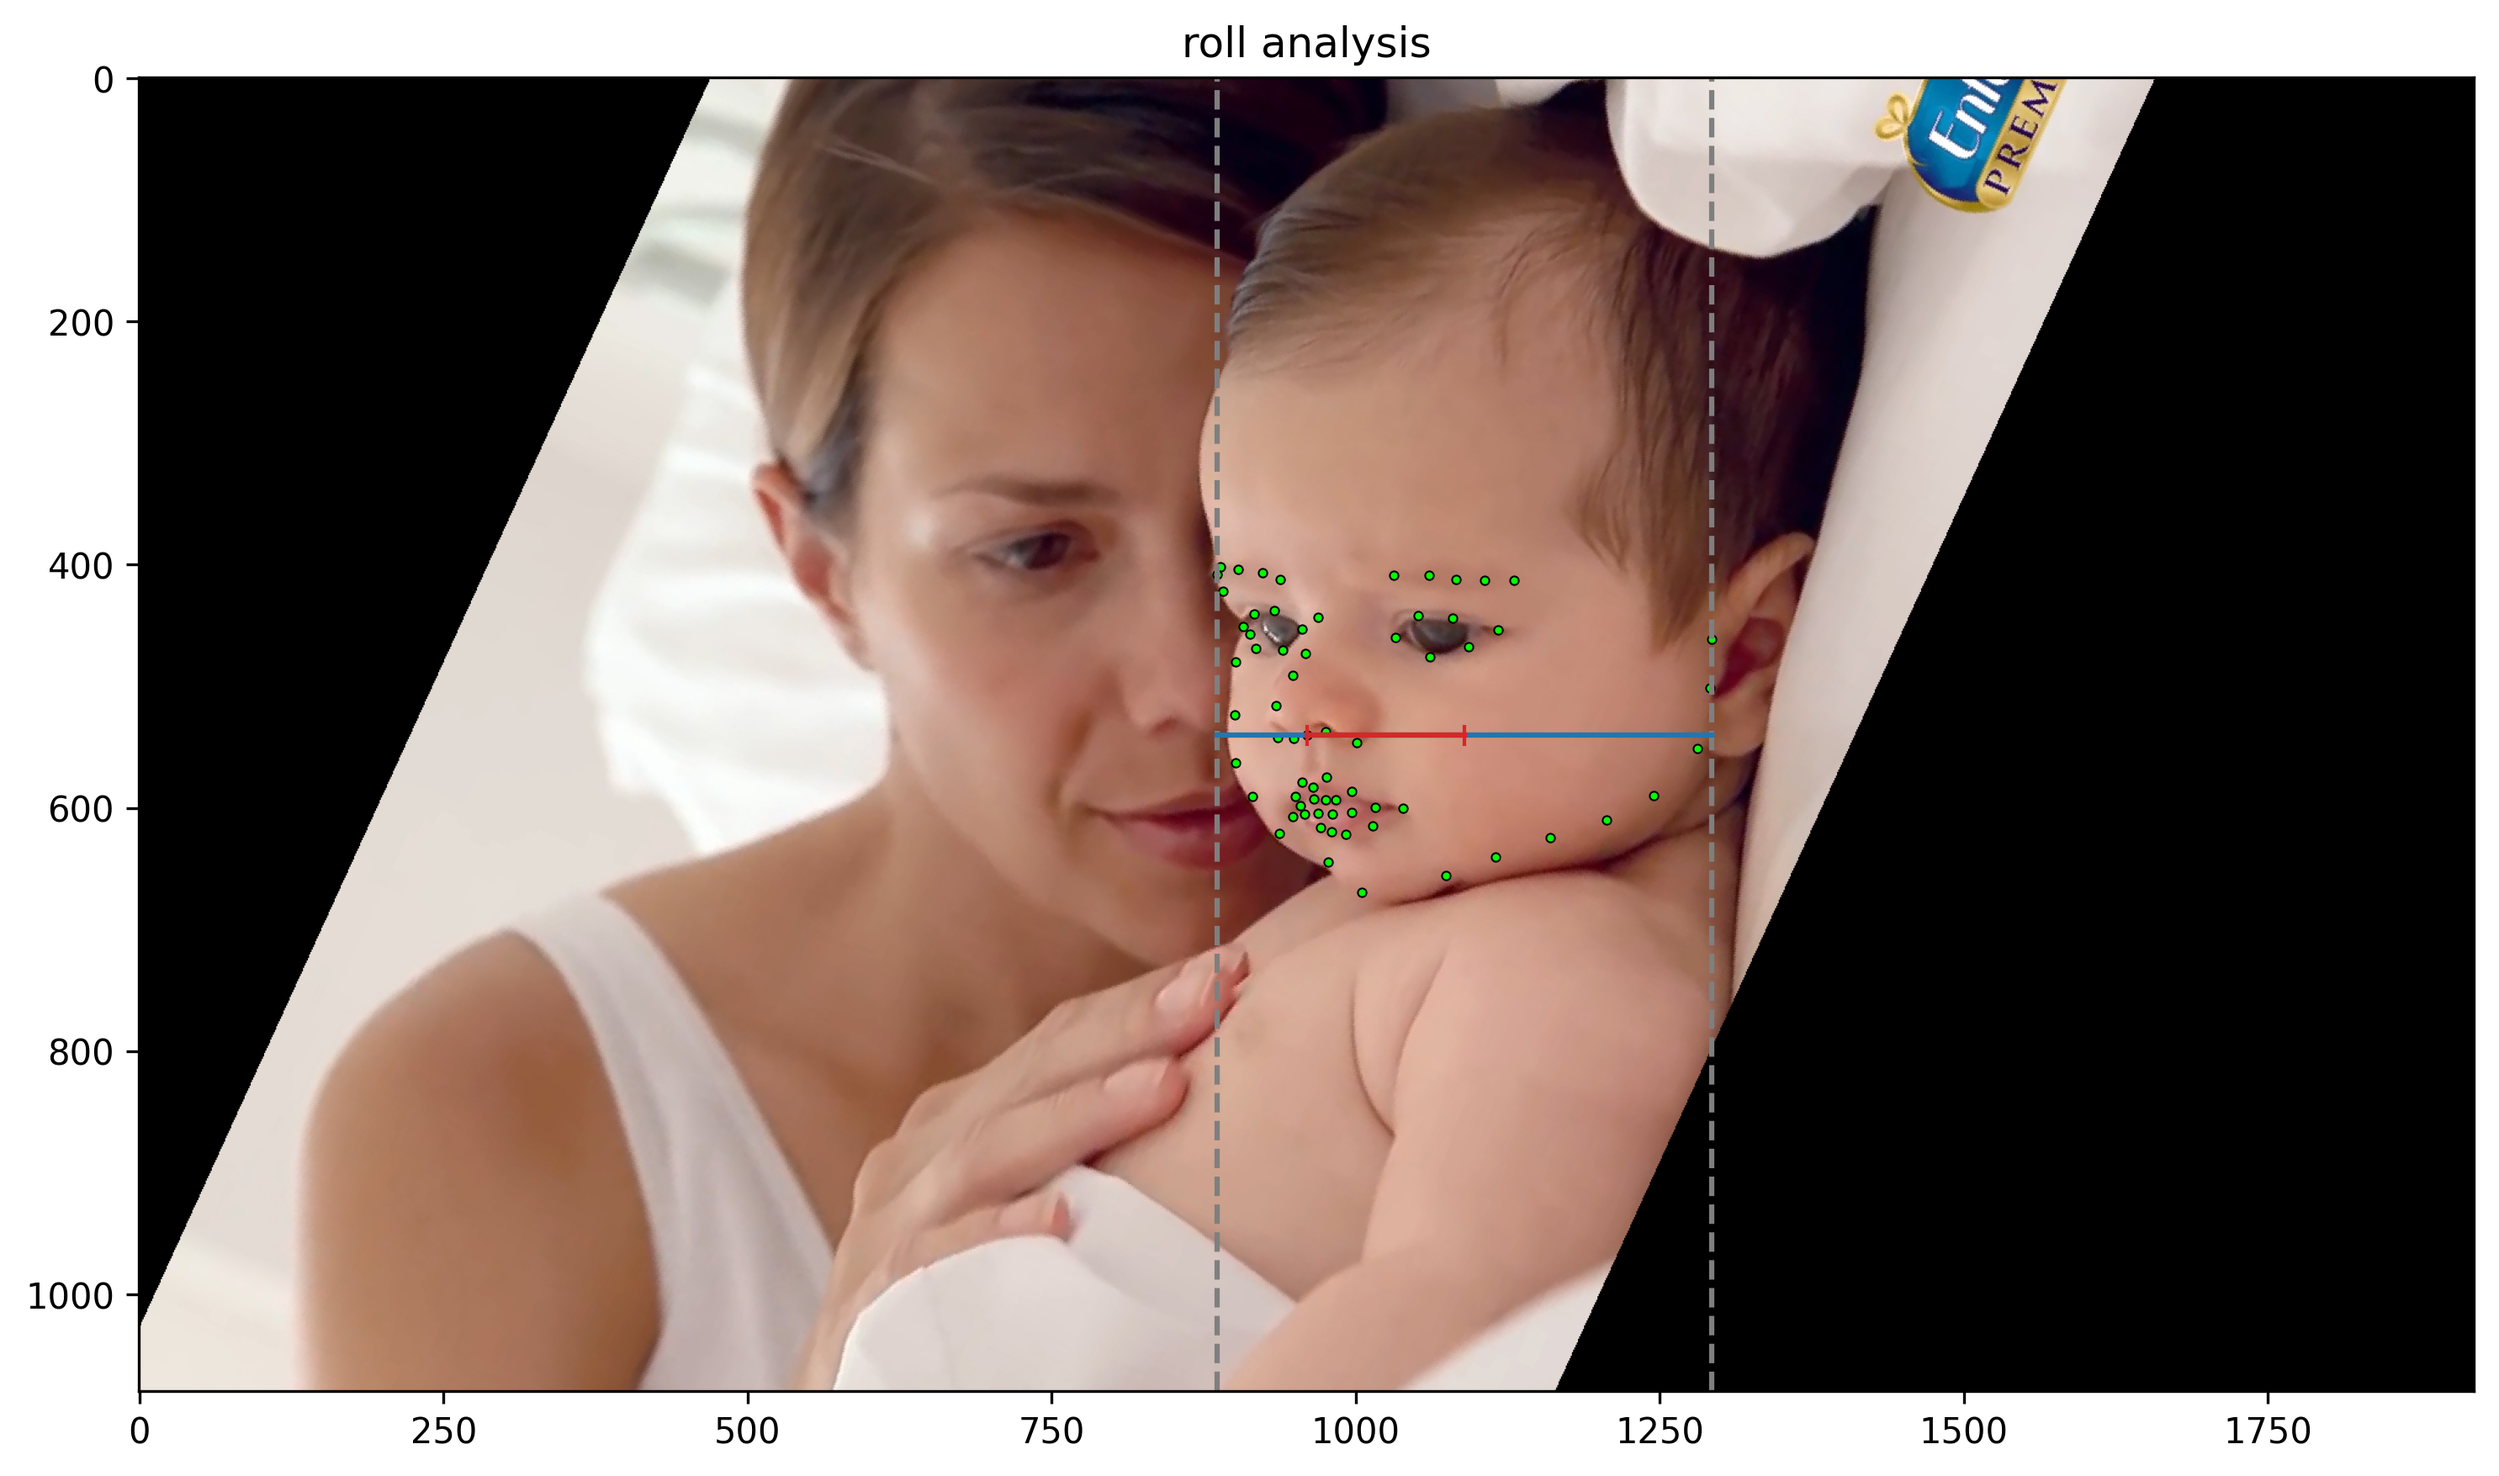
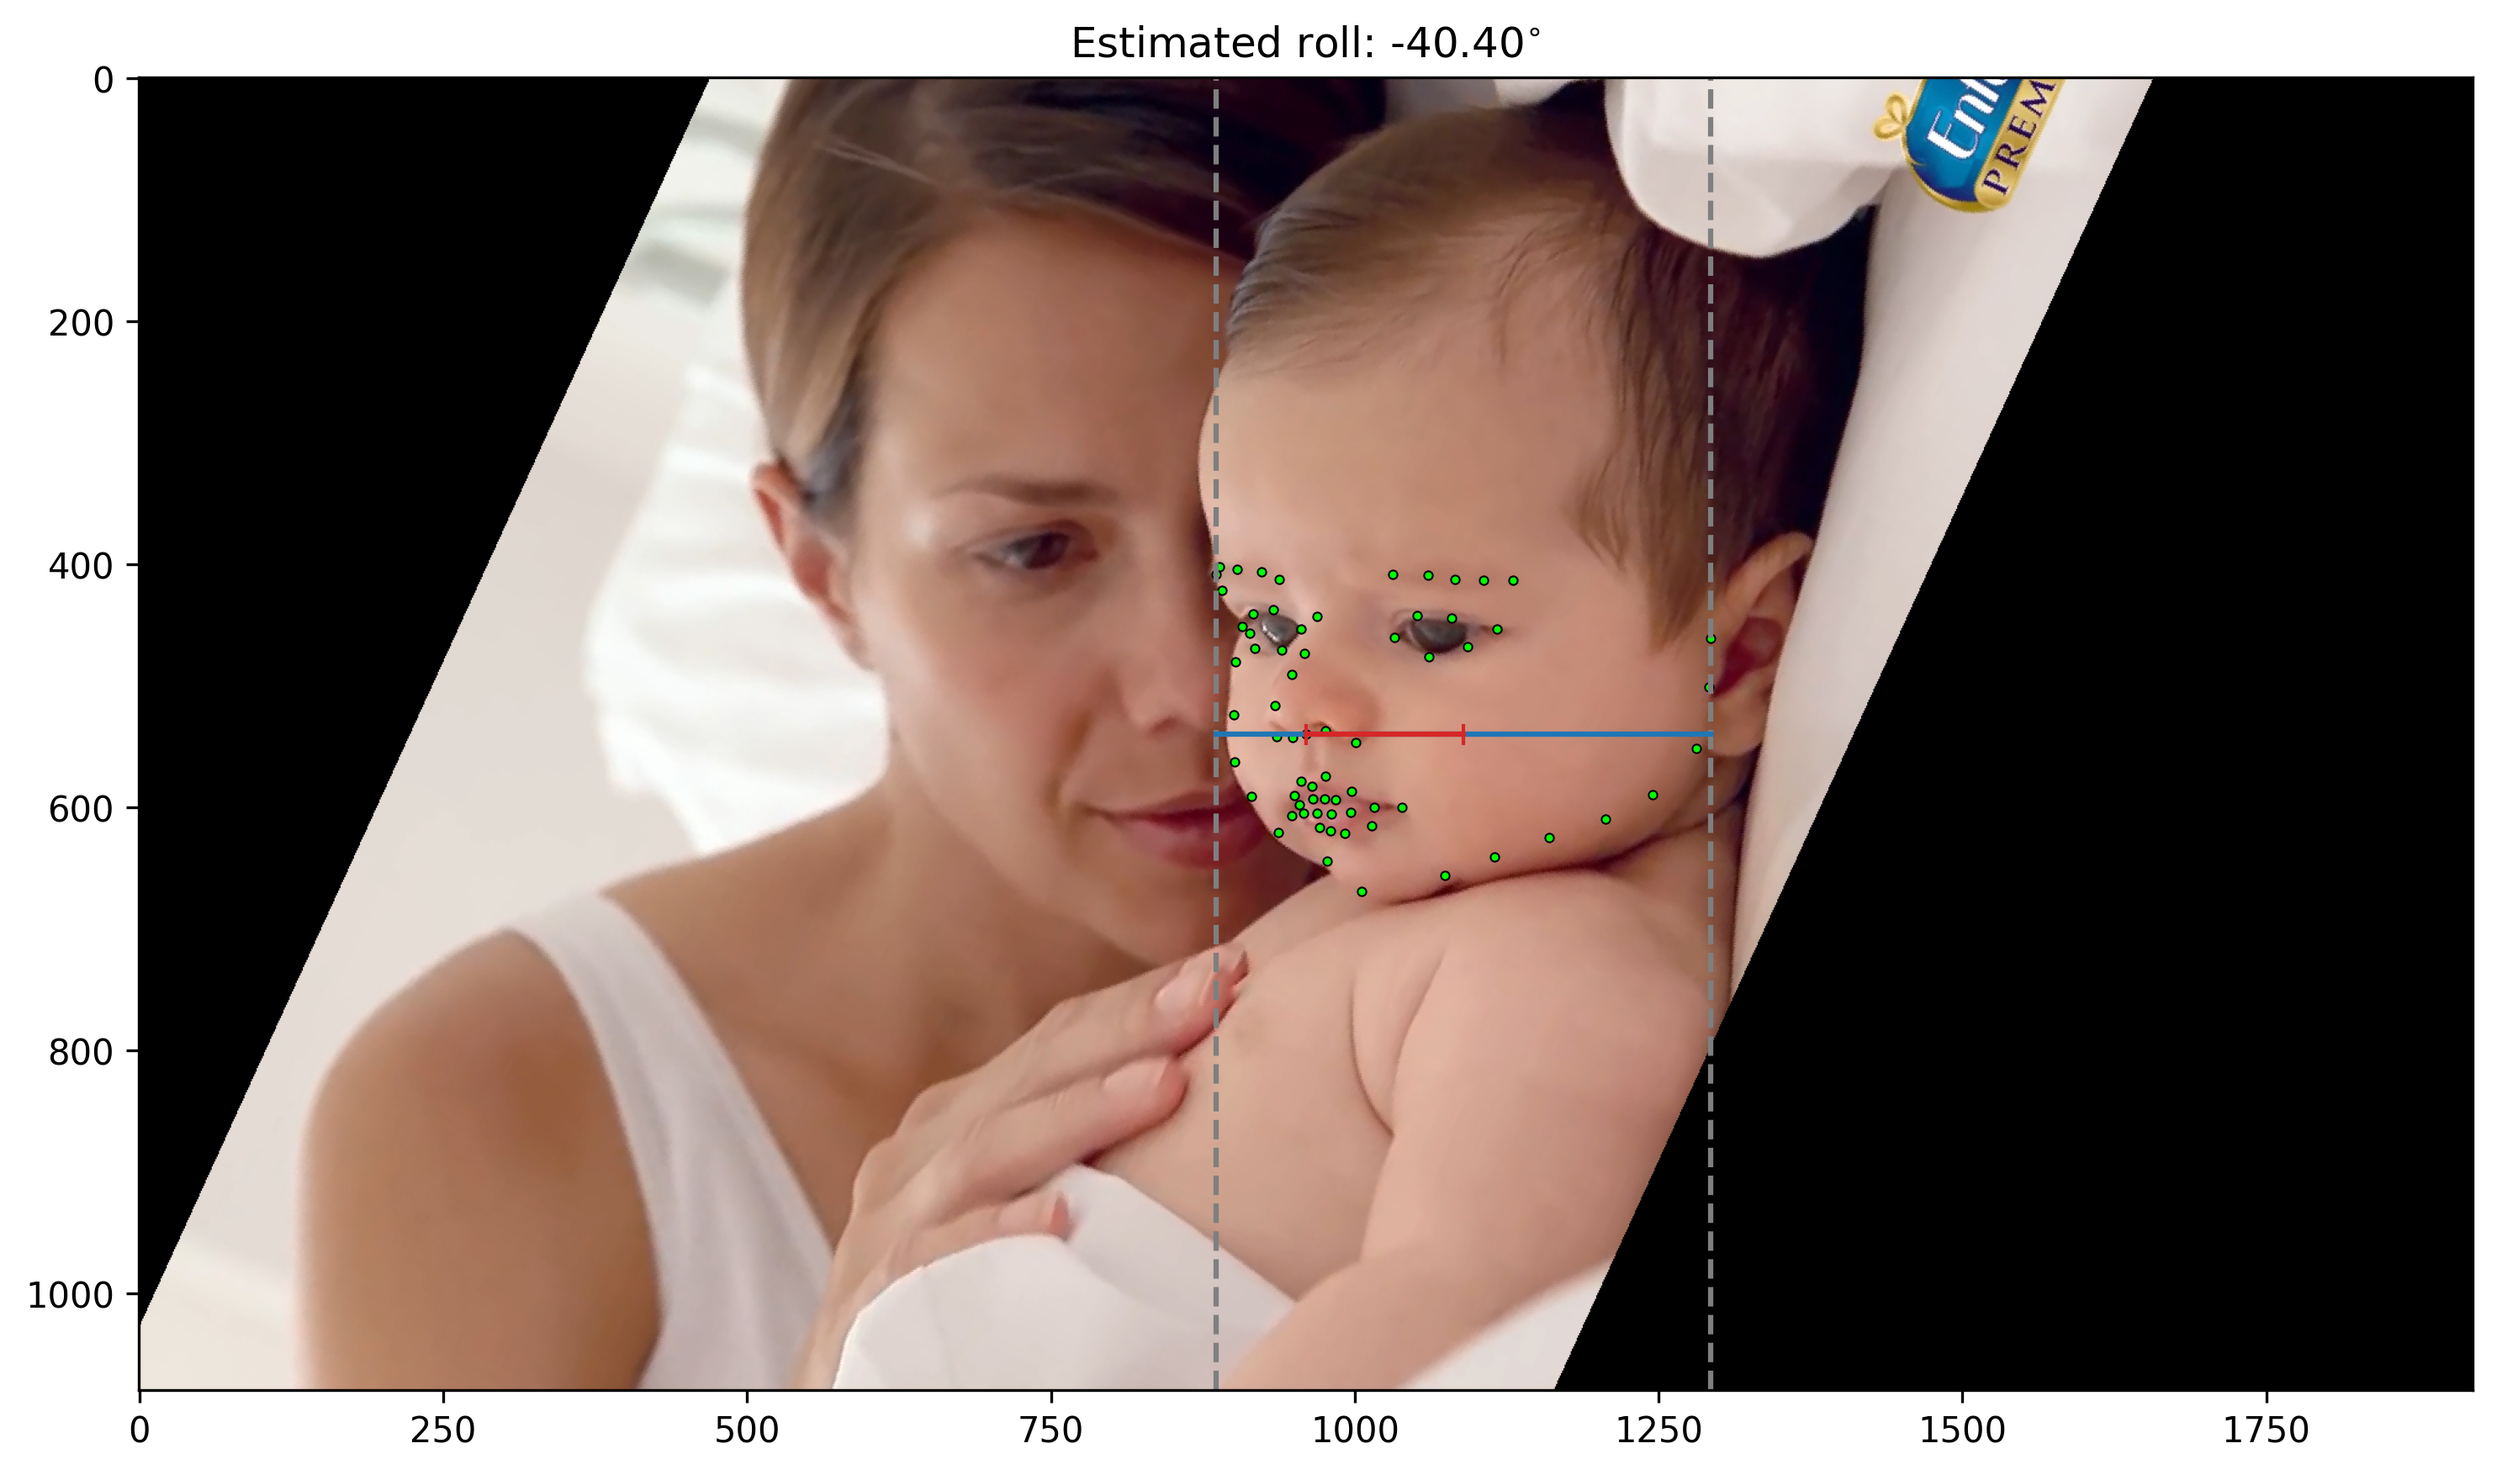
added estimated angles to roll/yaw slides; renamed scripts/make targets for slides

diff --git a/src/jh_roll_yaw_slides.py b/src/jh_roll_yaw_slides.py
@@ -14,18 +14,21 @@ import numpy as np
 # internal
 from util import meta_cache
 from util.model import nose_i, outer_canthi
-from util.pre import rotate
+from util.pre import rotate, to_deg
 from util.plot import plot_image
 from util.column_names import x_cols_cenrot,\
     x_cols_norm_cenrot,\
     y_cols_norm_cenrot
 
+# ----- constants
+deg = '$^{\circ}$'
 
+
+# ----- config
 save_fig = False
 
-# for col in df.columns:
-#     print(f'{col}: {df[col].dtype}')
 
+# ----- main execution
 df = meta_cache.get_meta()
 row_id = 690
 anno = meta_cache.get_image(row_id)
@@ -36,7 +39,7 @@ x_max = x_coords.max()
 x_mid = (x_min + x_max)/2
 x_nose = x_coords[nose_i]
 y_nose = rotated.get_y()[nose_i]
-# row = df.iloc[row_id]
+row = df.iloc[row_id]
 # x_cenrot = row[x_cols_norm_cenrot].to_numpy()
 
 fig, ax = plt.subplots(figsize=(10, 10))
@@ -47,6 +50,7 @@ plot_image(
 )
 canthi = rotated.get_coords()[outer_canthi]
 ax.plot(canthi[:,0], canthi[:,1], marker='|')
+plt.title(f'Estimated yaw: {row["yaw"] * to_deg:.2f}' + deg)
 plt.tight_layout()
 if save_fig:
     plt.savefig(
@@ -68,6 +72,7 @@ ax.axvline(x_max, c='tab:gray', linestyle='--')
 ax.plot([x_min, x_max], [y_nose, y_nose])
 ax.plot([x_nose, x_mid], [y_nose, y_nose], c='tab:red', marker='|')
 
+plt.title(f'Estimated roll: {row["roll"] * to_deg:.2f}' + deg)
 plt.tight_layout()
 if save_fig:
     plt.savefig(

diff --git a/src/util/model.py b/src/util/model.py
@@ -13,9 +13,10 @@ import numpy as np
 nose_i = 33  # the center of the horizontal line under nose
 cheeks = np.array([[i, 16 - i] for i in range(8)])
 brows = np.array([[17 + i, 26 - i] for i in range(5)])
+outer_canthi = [36, 45]
 h_syms = np.array([
-    [36, 45],  # outer canthus
-    [39, 42],  # inner canthus
+    outer_canthi,  # outer canthi
+    [39, 42],  # inner canthi
 
     # eyelids
     [37, 44],

diff --git a/preprocessing.md b/preprocessing.md
@@ -89,7 +89,9 @@ We would like to derive three components of head orientation: "roll", "pitch", a
 
 ## Calculation of "yaw"
 
-The calculation for yaw is a simple weighted average of angles between key landmarks (mainly the corners of eyes, or "canthi"). This has proven very effective, as manually verified for nearly all of the training data.
+The calculation for yaw is a simple weighted average of angles between key landmarks (mainly the corners of eyes, or "canthi"). This has proven very effective, as manually verified for most, if not all, of the training data.
+
+<img src="figs/yaw_analysis.png" width=600>
 
 ## Calculation of "roll"
 
